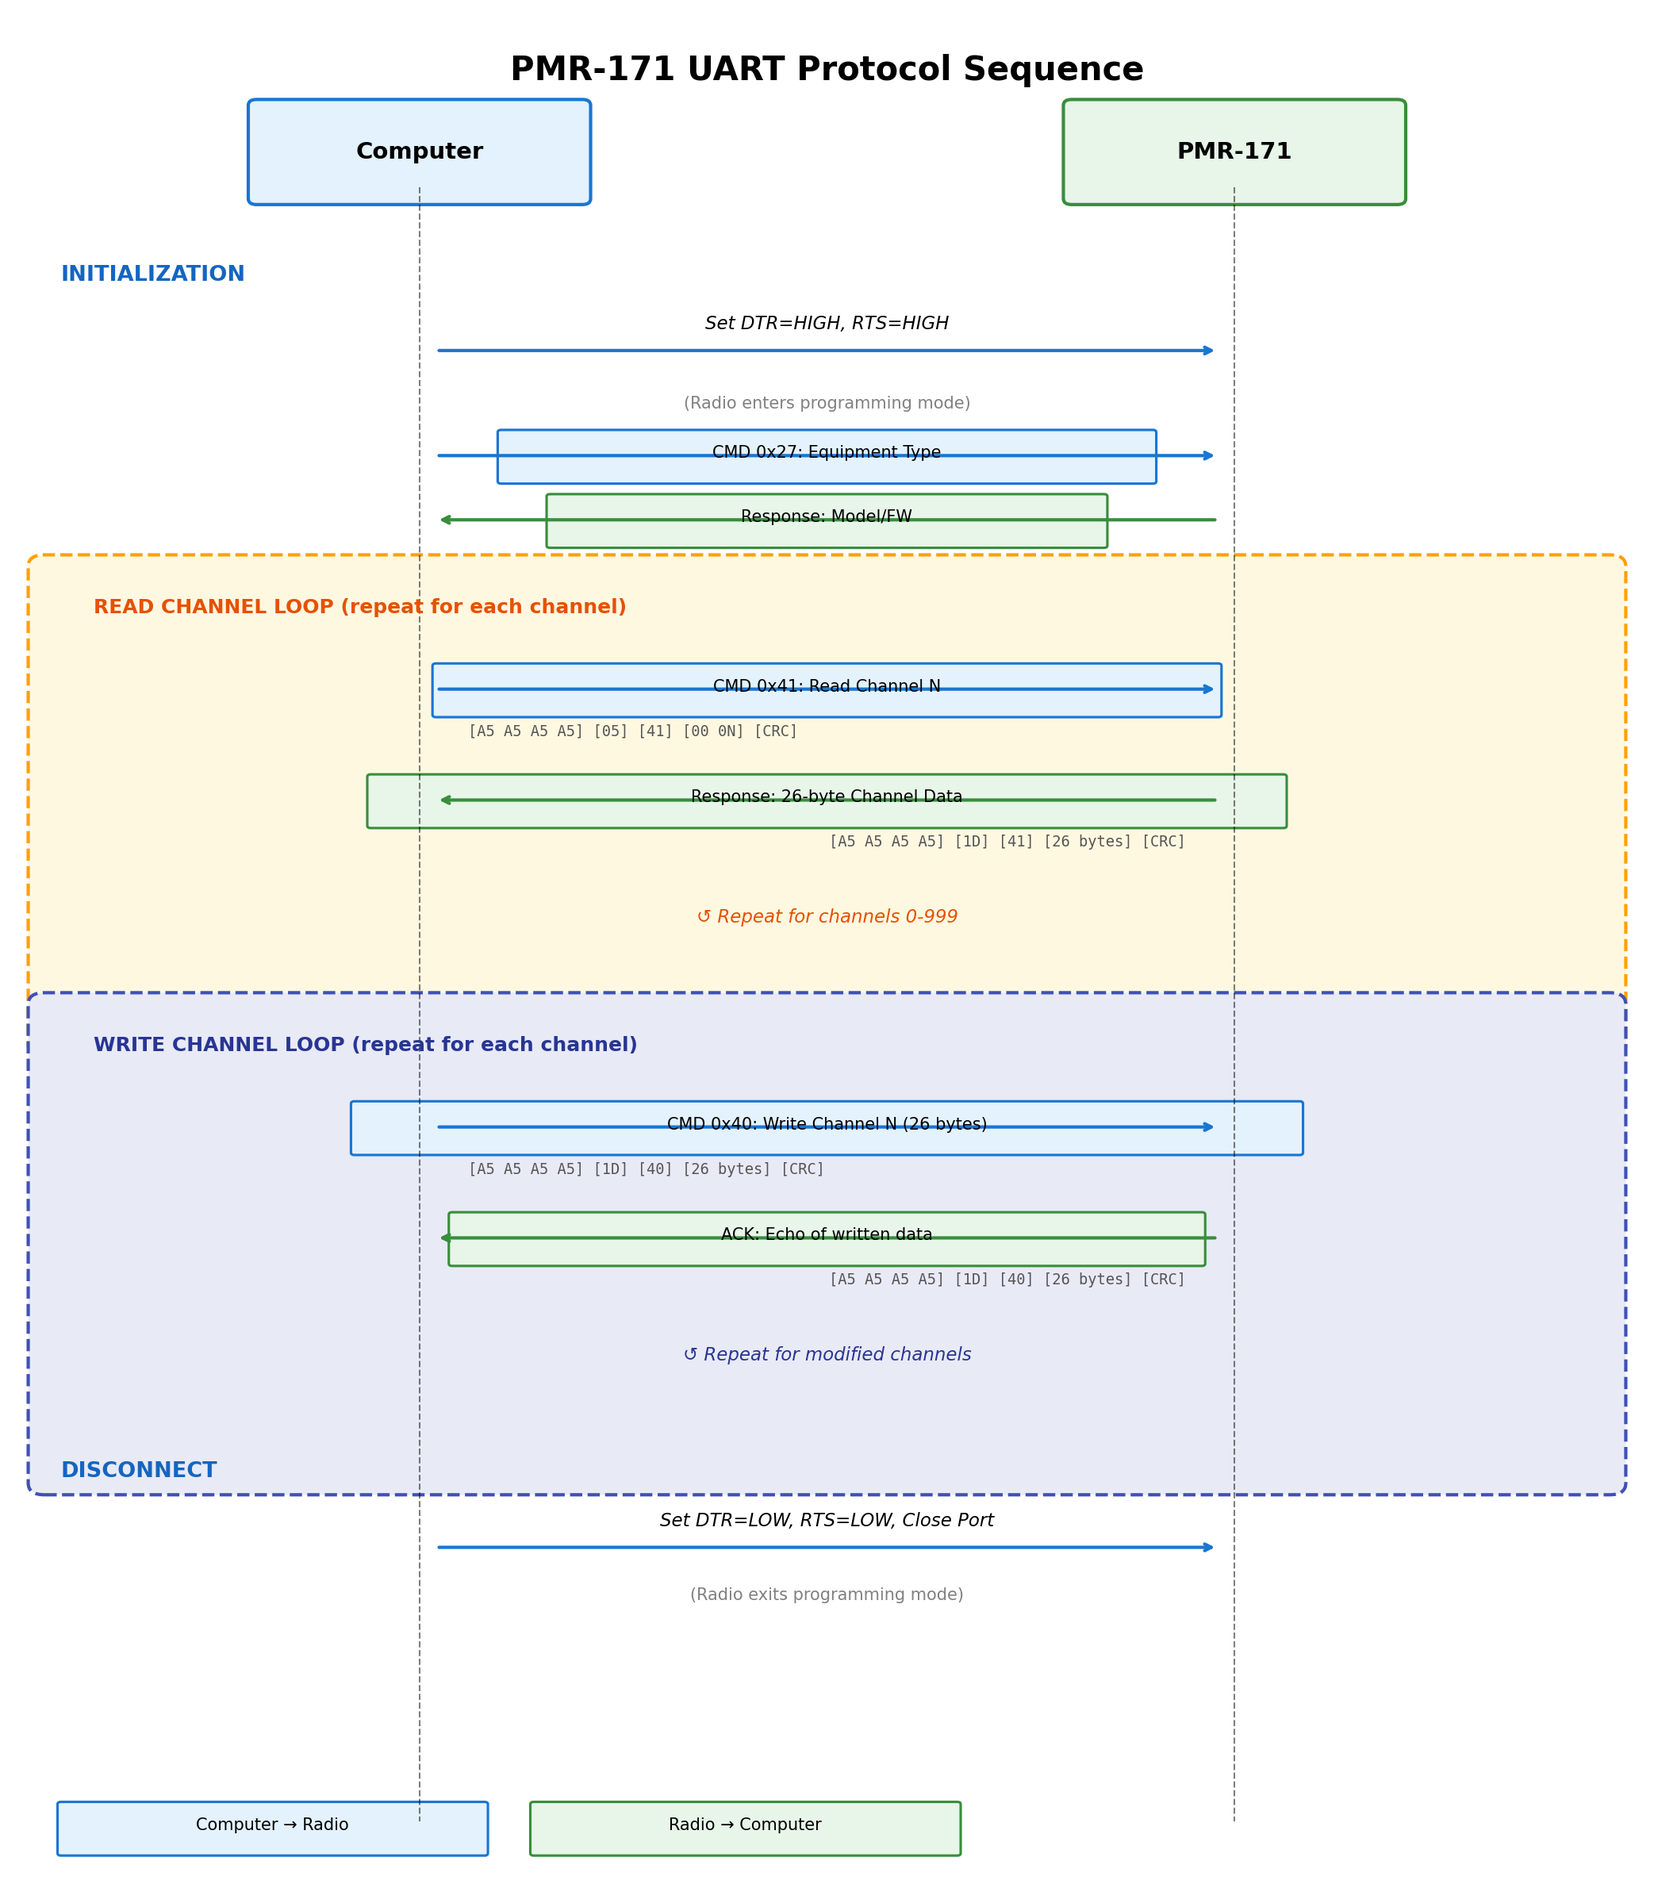
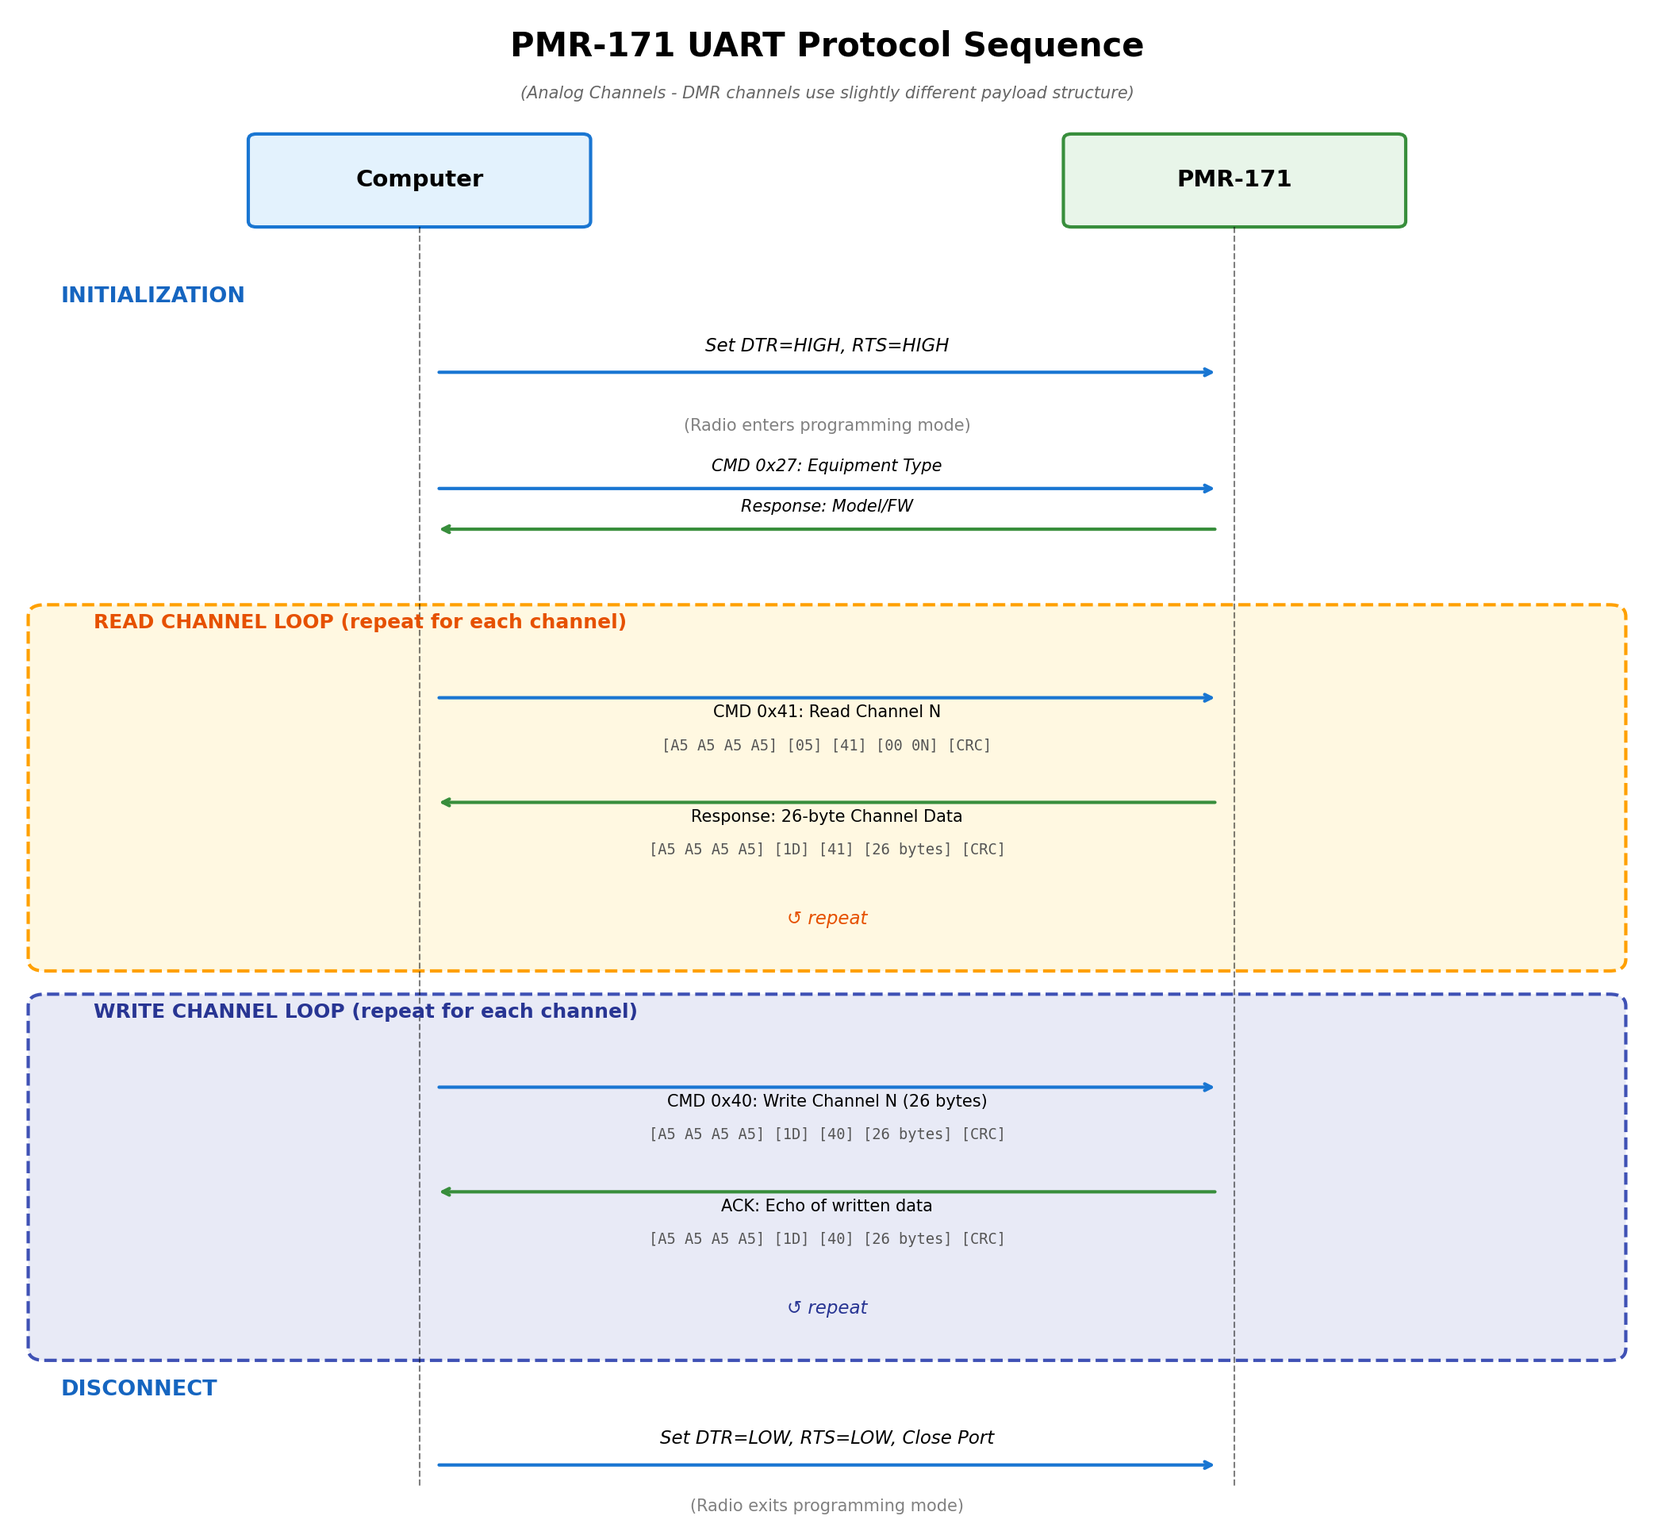
docs: refactor protocol diagram generation and add UART TODO
- Extract draw_message_arrow() helper function to reduce code duplication
  in generate_protocol_diagram.py
- Update generated protocol diagram images with improved layout
- Add TODO for write acknowledgement payload verification enhancement
- Remove obsolete Architecture Notes section from TODO.md
- Clean up completed and redundant TODO items

diff --git a/scripts/generate_protocol_diagram.py b/scripts/generate_protocol_diagram.py
@@ -14,45 +14,100 @@ from matplotlib.patches import FancyBboxPatch, FancyArrowPatch
 import os
 
 
+def draw_message_arrow(ax, from_x, to_x, y, label, hex_data, is_request=True, show_box=True):
+    """
+    Draw a message arrow with consistent styling.
+    
+    Args:
+        ax: matplotlib axis
+        from_x: starting x position
+        to_x: ending x position
+        y: y position of arrow
+        label: text label for the message
+        hex_data: hex packet example (or None)
+        is_request: True for computer->radio (blue), False for radio->computer (green)
+        show_box: whether to draw a box around the label
+    
+    Returns:
+        new y position after drawing
+    """
+    # Colors
+    if is_request:
+        arrow_color = '#1976D2'
+        box_color = '#E3F2FD'
+        edge_color = '#1976D2'
+    else:
+        arrow_color = '#388E3C'
+        box_color = '#E8F5E9'
+        edge_color = '#388E3C'
+    
+    # Draw arrow
+    ax.annotate('', xy=(to_x, y), xytext=(from_x, y),
+                arrowprops=dict(arrowstyle='->', color=arrow_color, lw=2))
+    
+    if show_box:
+        # Draw label box - consistent width (4.4 units centered at 5.0)
+        box_width = 4.4
+        box_x = 5.0 - box_width / 2
+        ax.add_patch(FancyBboxPatch((box_x, y - 0.35), box_width, 0.38, 
+                                    boxstyle="round,pad=0.02", 
+                                    facecolor=box_color, edgecolor=edge_color, linewidth=1.5))
+        ax.text(5, y - 0.17, label, ha='center', fontsize=10)
+        y -= 0.45
+    else:
+        # Just text, no box
+        ax.text(5, y + 0.15, label, ha='center', fontsize=10, style='italic')
+        y -= 0.35
+    
+    # Draw hex data if provided
+    if hex_data:
+        ax.text(5, y, hex_data, ha='center', fontsize=9, family='monospace', color='#555')
+        y -= 0.35
+    
+    return y
+
+
 def create_sequence_diagram():
     """Create a sequence diagram showing read/write protocol flow."""
     
-    fig, ax = plt.subplots(1, 1, figsize=(14, 16))
+    fig, ax = plt.subplots(1, 1, figsize=(14, 13))
     ax.set_xlim(0, 10)
-    ax.set_ylim(0, 16)
+    ax.set_ylim(0.5, 13.5)
     ax.axis('off')
     
     # Title
-    ax.text(5, 15.5, 'PMR-171 UART Protocol Sequence', 
+    ax.text(5, 13.2, 'PMR-171 UART Protocol Sequence', 
             ha='center', va='center', fontsize=20, fontweight='bold')
+    ax.text(5, 12.8, '(Analog Channels - DMR channels use slightly different payload structure)', 
+            ha='center', va='center', fontsize=10, style='italic', color='#666')
     
     # Lifelines
     computer_x = 2.5
     radio_x = 7.5
     
-    # Actor boxes
-    ax.add_patch(FancyBboxPatch((computer_x - 1.0, 14.4), 2.0, 0.8, 
+    # Actor boxes - positioned below subtitle with more space
+    ax.add_patch(FancyBboxPatch((computer_x - 1.0, 11.7), 2.0, 0.7, 
                                 boxstyle="round,pad=0.05", 
                                 facecolor='#E3F2FD', edgecolor='#1976D2', linewidth=2))
-    ax.text(computer_x, 14.8, 'Computer', ha='center', va='center', fontsize=14, fontweight='bold')
+    ax.text(computer_x, 12.05, 'Computer', ha='center', va='center', fontsize=14, fontweight='bold')
     
-    ax.add_patch(FancyBboxPatch((radio_x - 1.0, 14.4), 2.0, 0.8, 
+    ax.add_patch(FancyBboxPatch((radio_x - 1.0, 11.7), 2.0, 0.7, 
                                 boxstyle="round,pad=0.05", 
                                 facecolor='#E8F5E9', edgecolor='#388E3C', linewidth=2))
-    ax.text(radio_x, 14.8, 'PMR-171', ha='center', va='center', fontsize=14, fontweight='bold')
+    ax.text(radio_x, 12.05, 'PMR-171', ha='center', va='center', fontsize=14, fontweight='bold')
     
-    # Lifelines (dashed vertical lines)
-    ax.plot([computer_x, computer_x], [14.5, 0.5], 'k--', linewidth=1, alpha=0.5)
-    ax.plot([radio_x, radio_x], [14.5, 0.5], 'k--', linewidth=1, alpha=0.5)
+    # Lifelines (dashed vertical lines) - start below actor boxes, end below content
+    ax.plot([computer_x, computer_x], [11.65, 0.8], 'k--', linewidth=1, alpha=0.5)
+    ax.plot([radio_x, radio_x], [11.65, 0.8], 'k--', linewidth=1, alpha=0.5)
     
-    y = 14.0
+    y = 11.3
     
     # === INITIALIZATION PHASE ===
     y -= 0.3
     ax.text(0.3, y, 'INITIALIZATION', fontsize=13, fontweight='bold', color='#1565C0')
     
     y -= 0.6
-    # DTR/RTS Setup
+    # DTR/RTS Setup (no box, just text above arrow)
     ax.annotate('', xy=(radio_x - 0.1, y), xytext=(computer_x + 0.1, y),
                 arrowprops=dict(arrowstyle='->', color='#1976D2', lw=2))
     ax.text(5, y + 0.18, 'Set DTR=HIGH, RTS=HIGH', ha='center', fontsize=11, style='italic')
@@ -60,98 +115,70 @@ def create_sequence_diagram():
     y -= 0.5
     ax.text(5, y, '(Radio enters programming mode)', ha='center', fontsize=10, color='gray')
     
-    y -= 0.4
-    # Optional: Equipment Type Query
-    ax.annotate('', xy=(radio_x - 0.1, y), xytext=(computer_x + 0.1, y),
-                arrowprops=dict(arrowstyle='->', color='#1976D2', lw=2))
-    ax.add_patch(FancyBboxPatch((3.0, y - 0.22), 4.0, 0.42, 
-                                boxstyle="round,pad=0.02", 
-                                facecolor='#E3F2FD', edgecolor='#1976D2', linewidth=1.5))
-    ax.text(5, y - 0.02, 'CMD 0x27: Equipment Type', ha='center', fontsize=10)
+    y -= 0.5
+    # Equipment Type Query - no box for initialization commands
+    y = draw_message_arrow(ax, computer_x + 0.1, radio_x - 0.1, y, 
+                           'CMD 0x27: Equipment Type', None, is_request=True, show_box=False)
     
-    y -= 0.55
-    ax.annotate('', xy=(computer_x + 0.1, y), xytext=(radio_x - 0.1, y),
-                arrowprops=dict(arrowstyle='->', color='#388E3C', lw=2))
-    ax.add_patch(FancyBboxPatch((3.3, y - 0.22), 3.4, 0.42, 
-                                boxstyle="round,pad=0.02", 
-                                facecolor='#E8F5E9', edgecolor='#388E3C', linewidth=1.5))
-    ax.text(5, y - 0.02, 'Response: Model/FW', ha='center', fontsize=10)
+    # Equipment Type Response - no box for initialization commands
+    y = draw_message_arrow(ax, radio_x - 0.1, computer_x + 0.1, y, 
+                           'Response: Model/FW', None, is_request=False, show_box=False)
+    
+    y -= 0.4
+    
+    # === READ OPERATION ===
+    read_box_top = y
+    ax.text(0.5, y - 0.1, 'READ CHANNEL LOOP (repeat for each channel)', fontsize=12, fontweight='bold', color='#E65100')
+    
+    y -= 0.7
+    # Read Request
+    y = draw_message_arrow(ax, computer_x + 0.1, radio_x - 0.1, y, 
+                           'CMD 0x41: Read Channel N', 
+                           '[A5 A5 A5 A5] [05] [41] [00 0N] [CRC]', is_request=True)
+    
+    y -= 0.1
+    # Read Response
+    y = draw_message_arrow(ax, radio_x - 0.1, computer_x + 0.1, y, 
+                           'Response: 26-byte Channel Data', 
+                           '[A5 A5 A5 A5] [1D] [41] [26 bytes] [CRC]', is_request=False)
+    
+    y -= 0.25
+    ax.text(5, y, '↺ repeat', ha='center', fontsize=11, style='italic', color='#E65100')
+    
+    read_box_bottom = y - 0.3
+    # Draw read loop box
+    ax.add_patch(FancyBboxPatch((0.2, read_box_bottom), 9.6, read_box_top - read_box_bottom, 
+                                boxstyle="round,pad=0.1", 
+                                facecolor='#FFF8E1', edgecolor='#FFA000', linewidth=2, linestyle='--'))
     
     y -= 0.7
     
-    # === READ OPERATION ===
-    ax.add_patch(FancyBboxPatch((0.2, y - 3.8), 9.6, 4.1, 
-                                boxstyle="round,pad=0.1", 
-                                facecolor='#FFF8E1', edgecolor='#FFA000', linewidth=2, linestyle='--'))
-    ax.text(0.5, y - 0.1, 'READ CHANNEL LOOP (repeat for each channel)', fontsize=12, fontweight='bold', color='#E65100')
-    
-    y -= 0.75
-    # Read Request
-    ax.annotate('', xy=(radio_x - 0.1, y), xytext=(computer_x + 0.1, y),
-                arrowprops=dict(arrowstyle='->', color='#1976D2', lw=2))
-    ax.add_patch(FancyBboxPatch((2.6, y - 0.22), 4.8, 0.42, 
-                                boxstyle="round,pad=0.02", 
-                                facecolor='#E3F2FD', edgecolor='#1976D2', linewidth=1.5))
-    ax.text(5, y - 0.02, 'CMD 0x41: Read Channel N', ha='center', fontsize=10)
-    
-    y -= 0.4
-    ax.text(computer_x + 0.3, y, '[A5 A5 A5 A5] [05] [41] [00 0N] [CRC]', 
-            fontsize=9, family='monospace', color='#555')
-    
-    y -= 0.55
-    # Read Response
-    ax.annotate('', xy=(computer_x + 0.1, y), xytext=(radio_x - 0.1, y),
-                arrowprops=dict(arrowstyle='->', color='#388E3C', lw=2))
-    ax.add_patch(FancyBboxPatch((2.2, y - 0.22), 5.6, 0.42, 
-                                boxstyle="round,pad=0.02", 
-                                facecolor='#E8F5E9', edgecolor='#388E3C', linewidth=1.5))
-    ax.text(5, y - 0.02, 'Response: 26-byte Channel Data', ha='center', fontsize=10)
-    
-    y -= 0.4
-    ax.text(radio_x - 0.3, y, '[A5 A5 A5 A5] [1D] [41] [26 bytes] [CRC]', 
-            fontsize=9, family='monospace', color='#555', ha='right')
-    
-    y -= 0.65
-    ax.text(5, y, '↺ Repeat for channels 0-999', ha='center', fontsize=11, style='italic', color='#E65100')
-    
-    y -= 1.0
-    
     # === WRITE OPERATION ===
-    ax.add_patch(FancyBboxPatch((0.2, y - 3.8), 9.6, 4.1, 
-                                boxstyle="round,pad=0.1", 
-                                facecolor='#E8EAF6', edgecolor='#3F51B5', linewidth=2, linestyle='--'))
+    write_box_top = y
     ax.text(0.5, y - 0.1, 'WRITE CHANNEL LOOP (repeat for each channel)', fontsize=12, fontweight='bold', color='#283593')
     
-    y -= 0.75
+    y -= 0.7
     # Write Request
-    ax.annotate('', xy=(radio_x - 0.1, y), xytext=(computer_x + 0.1, y),
-                arrowprops=dict(arrowstyle='->', color='#1976D2', lw=2))
-    ax.add_patch(FancyBboxPatch((2.1, y - 0.22), 5.8, 0.42, 
-                                boxstyle="round,pad=0.02", 
-                                facecolor='#E3F2FD', edgecolor='#1976D2', linewidth=1.5))
-    ax.text(5, y - 0.02, 'CMD 0x40: Write Channel N (26 bytes)', ha='center', fontsize=10)
+    y = draw_message_arrow(ax, computer_x + 0.1, radio_x - 0.1, y, 
+                           'CMD 0x40: Write Channel N (26 bytes)', 
+                           '[A5 A5 A5 A5] [1D] [40] [26 bytes] [CRC]', is_request=True)
     
-    y -= 0.4
-    ax.text(computer_x + 0.3, y, '[A5 A5 A5 A5] [1D] [40] [26 bytes] [CRC]', 
-            fontsize=9, family='monospace', color='#555')
-    
-    y -= 0.55
+    y -= 0.1
     # Write Response
-    ax.annotate('', xy=(computer_x + 0.1, y), xytext=(radio_x - 0.1, y),
-                arrowprops=dict(arrowstyle='->', color='#388E3C', lw=2))
-    ax.add_patch(FancyBboxPatch((2.7, y - 0.22), 4.6, 0.42, 
-                                boxstyle="round,pad=0.02", 
-                                facecolor='#E8F5E9', edgecolor='#388E3C', linewidth=1.5))
-    ax.text(5, y - 0.02, 'ACK: Echo of written data', ha='center', fontsize=10)
+    y = draw_message_arrow(ax, radio_x - 0.1, computer_x + 0.1, y, 
+                           'ACK: Echo of written data', 
+                           '[A5 A5 A5 A5] [1D] [40] [26 bytes] [CRC]', is_request=False)
     
-    y -= 0.4
-    ax.text(radio_x - 0.3, y, '[A5 A5 A5 A5] [1D] [40] [26 bytes] [CRC]', 
-            fontsize=9, family='monospace', color='#555', ha='right')
+    y -= 0.25
+    ax.text(5, y, '↺ repeat', ha='center', fontsize=11, style='italic', color='#283593')
     
-    y -= 0.65
-    ax.text(5, y, '↺ Repeat for modified channels', ha='center', fontsize=11, style='italic', color='#283593')
+    write_box_bottom = y - 0.3
+    # Draw write loop box
+    ax.add_patch(FancyBboxPatch((0.2, write_box_bottom), 9.6, write_box_top - write_box_bottom, 
+                                boxstyle="round,pad=0.1", 
+                                facecolor='#E8EAF6', edgecolor='#3F51B5', linewidth=2, linestyle='--'))
     
-    y -= 1.0
+    y -= 0.7
     
     # === CLOSE ===
     ax.text(0.3, y, 'DISCONNECT', fontsize=13, fontweight='bold', color='#1565C0')
@@ -161,20 +188,8 @@ def create_sequence_diagram():
                 arrowprops=dict(arrowstyle='->', color='#1976D2', lw=2))
     ax.text(5, y + 0.18, 'Set DTR=LOW, RTS=LOW, Close Port', ha='center', fontsize=11, style='italic')
     
-    y -= 0.45
+    y -= 0.4
     ax.text(5, y, '(Radio exits programming mode)', ha='center', fontsize=10, color='gray')
-    
-    # Legend
-    y = 0.35
-    ax.add_patch(FancyBboxPatch((0.3, y - 0.12), 2.6, 0.42, 
-                                boxstyle="round,pad=0.02", 
-                                facecolor='#E3F2FD', edgecolor='#1976D2', linewidth=1.5))
-    ax.text(1.6, y + 0.08, 'Computer → Radio', ha='center', fontsize=10)
-    
-    ax.add_patch(FancyBboxPatch((3.2, y - 0.12), 2.6, 0.42, 
-                                boxstyle="round,pad=0.02", 
-                                facecolor='#E8F5E9', edgecolor='#388E3C', linewidth=1.5))
-    ax.text(4.5, y + 0.08, 'Radio → Computer', ha='center', fontsize=10)
     
     plt.tight_layout()
     return fig

diff --git a/TODO.md b/TODO.md
@@ -107,6 +107,18 @@ This document tracks planned features, enhancements, and known issues for the PM
 
 ## Medium Priority
 
+### UART Protocol Enhancements
+- [ ] **Write acknowledgement payload verification**: Verify ACK packet payload matches sent data
+  - Currently only validates CRC and command byte (0x40 or 0x43)
+  - Should compare echoed payload against original write data
+  - Could detect transmission errors not caught by CRC alone
+  - **Location**: `pmr_171_cps/radio/pmr171_uart.py` - `write_channel()` and `write_dmr_data()` methods
+  - **Implementation options**:
+    1. Byte-by-byte comparison of payload
+    2. Optional read-back verification after write
+    3. Compare critical fields only (channel index, frequency, mode)
+  - **Priority**: LOW - Current implementation works reliably; this is a robustness enhancement
+
 ### Documentation Tasks
 - [x] **UART Reverse Engineering Report**: ✅ COMPLETE (January 19, 2026)
   - Comprehensive technical report documenting the protocol discovery process
@@ -157,7 +169,6 @@ This document tracks planned features, enhancements, and known issues for the PM
     - `channelInZone`: Channel index within zone (0-9, 0-99, etc.)
   - **Not a radio function** - CPS-only feature for organization
   - **Compatibility testing needed**: Test if Guohetec utility ignores unrecognized JSON fields (may strip on load/save)
-- [ ] **Import/Export presets**: Save and load channel configurations
 - [x] **Frequency calculator**: Repeater offset calculator and tone lookup
 - [x] **Automatic frequency formatting**: Format frequency inputs to standard MHz precision (XXX.XXXXXX) with live tree view updates (Jan 2026)
 - [x] **Channel validation**: Warn about out-of-band frequencies, invalid tones (Jan 2026)
@@ -215,41 +226,6 @@ This document tracks planned features, enhancements, and known issues for the PM
 
 ---
 
-## Architecture Notes
-
-### Current Data Model (Jan 2026)
-- **Storage Format**: PMR-171 JSON (direct radio format)
-  - Channels keyed by string ID ("0", "1", "2", etc.)
-  - Each channel has 40+ fields including vfoaFrequency1-4, vfobFrequency1-4, etc.
-  - Frequency stored as big-endian 4-byte integers (Hz)
-  
-- **GUI Data Flow**:
-  - `self.channels` dict holds all channel data
-  - Tree displays sorted view with selectable columns
-  - Detail tabs edit channels in-place
-  - Live updates via StringVar/IntVar traces
-  - Save writes entire `self.channels` back to JSON
-
-- **Design Decision**: Single-frequency sources (CHIRP) duplicate freq to both VFOs A and B for simplex operation. This is the intended behavior, not a limitation.
-
-### Recommended Future Architecture
-```
-Input Formats (CHIRP .img, Anytone .rdt, etc.)
-    ↓
-Internal/Intermediate Format (flexible, human-readable)
-    ↓
-GUI Editor (edit intermediate format)
-    ↓
-Export Formats (PMR-171 JSON, CSV, other radios)
-```
-
-This allows:
-- Single freq sources → intermediate → dual freq export (with user input)
-- Dual freq sources → intermediate → preserve both freqs
-- Format-agnostic editing experience
-
----
-
 ## Implementation Notes
 
 ### What Works Well (Keep This Approach)
@@ -257,7 +233,7 @@ This allows:
 - **Column selection**: Dynamic tree reconfiguration works cleanly
 - **Data binding**: ComboBox changes → `_update_field()` → immediate save
 - **Arrow navigation**: Up/Down for channels, Left/Right for tabs with collapse prevention
-- **Professional styling**: Blue headers, proper fonts, MOTORTRBO/ASTRO 25 aesthetic
+- **Styling**: Blue headers, proper fonts, MOTORTRBO/ASTRO 25 aesthetic
 - **File operations**: Ctrl+O/Ctrl+S with datetime-based defaults
 
 ### Technical Hints
